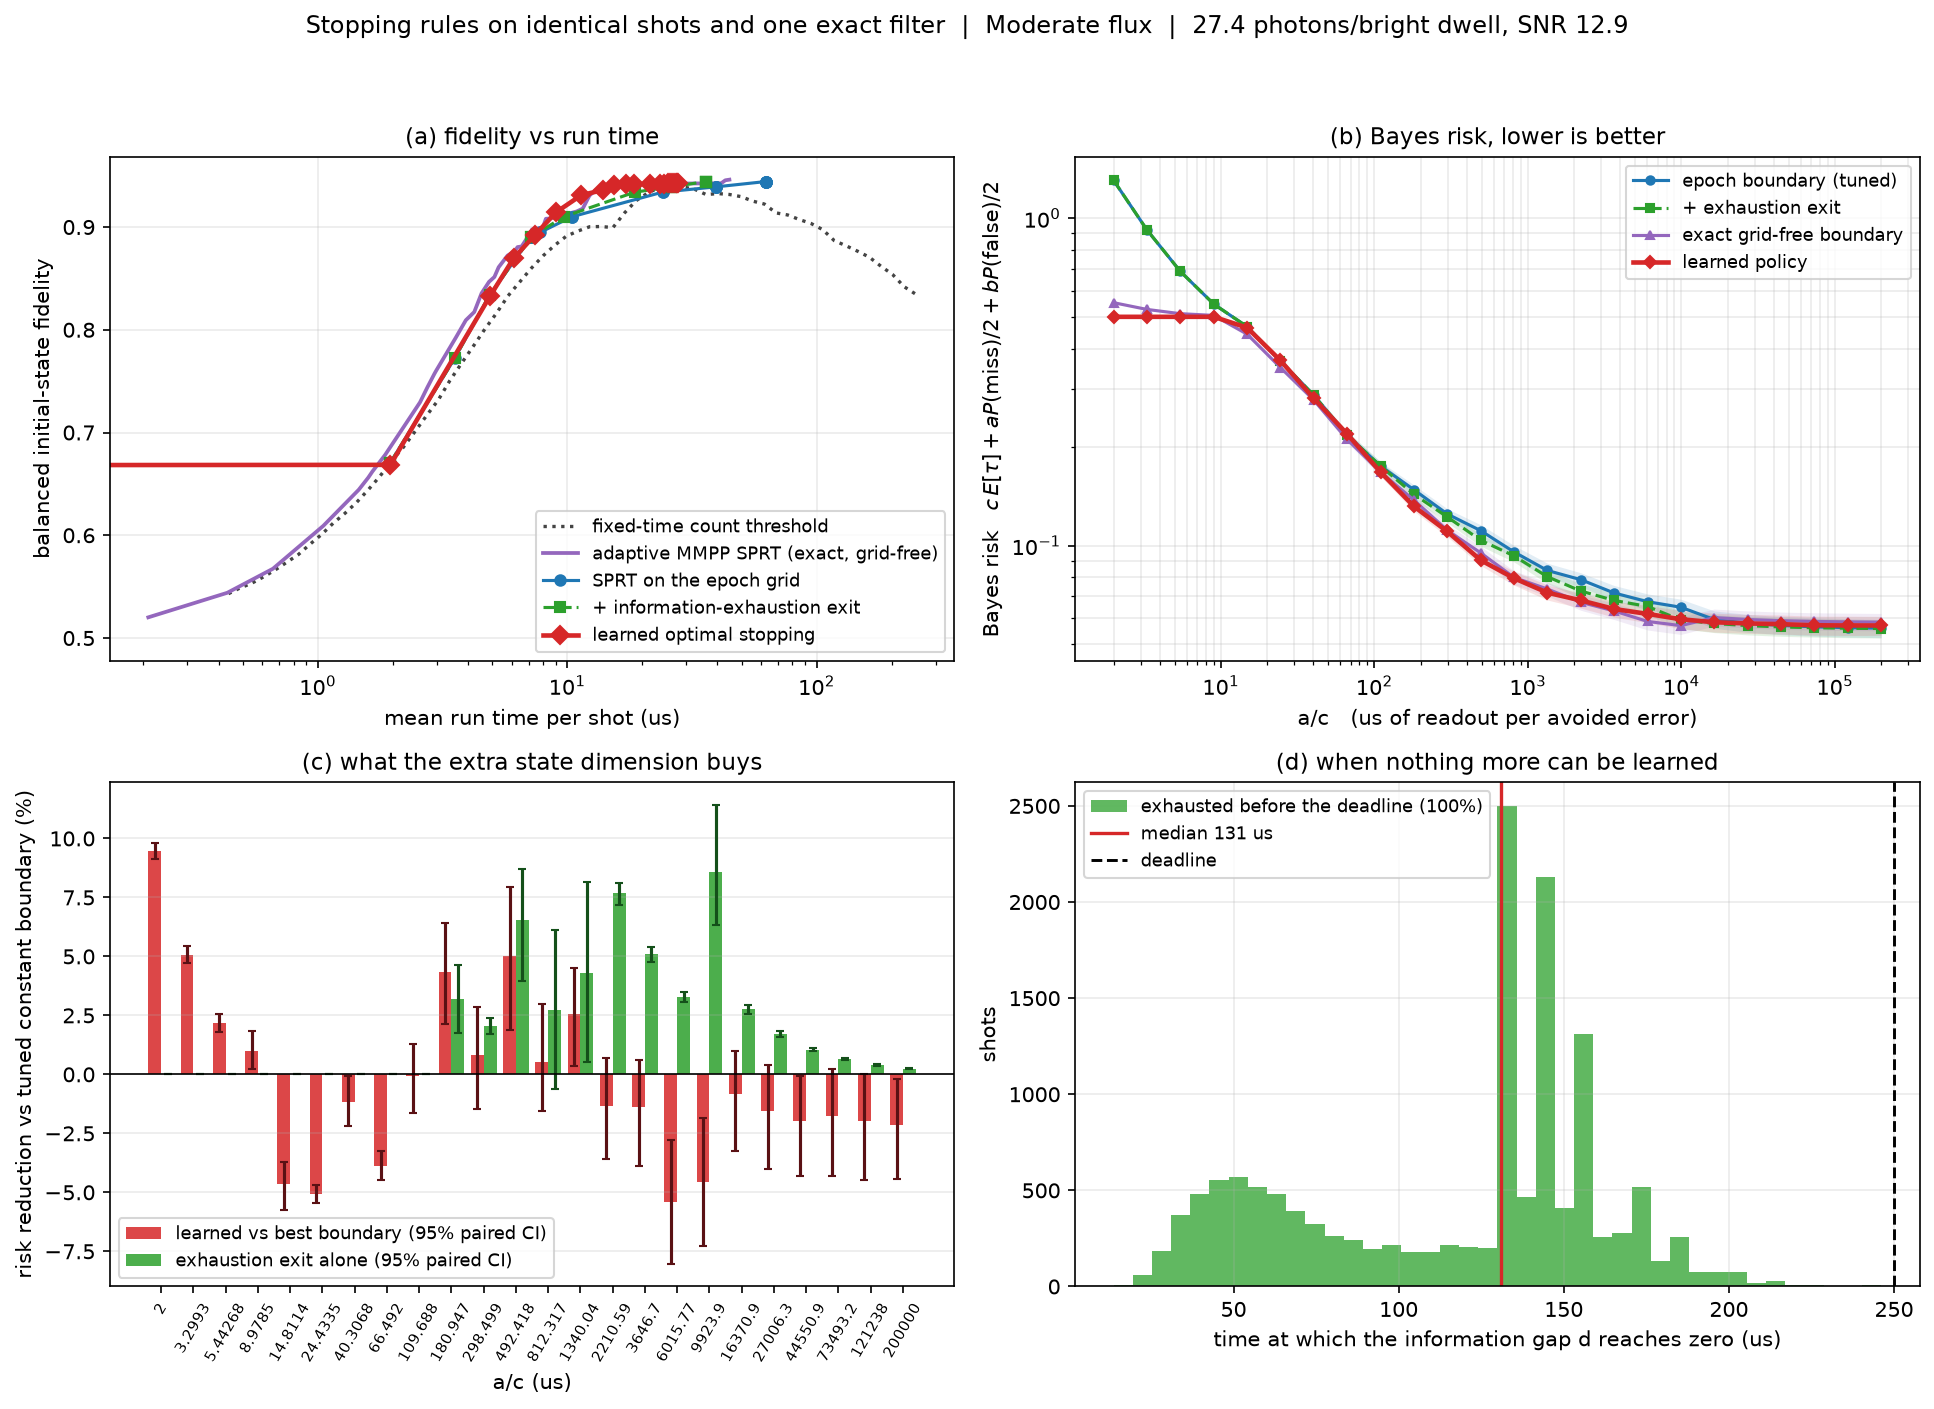
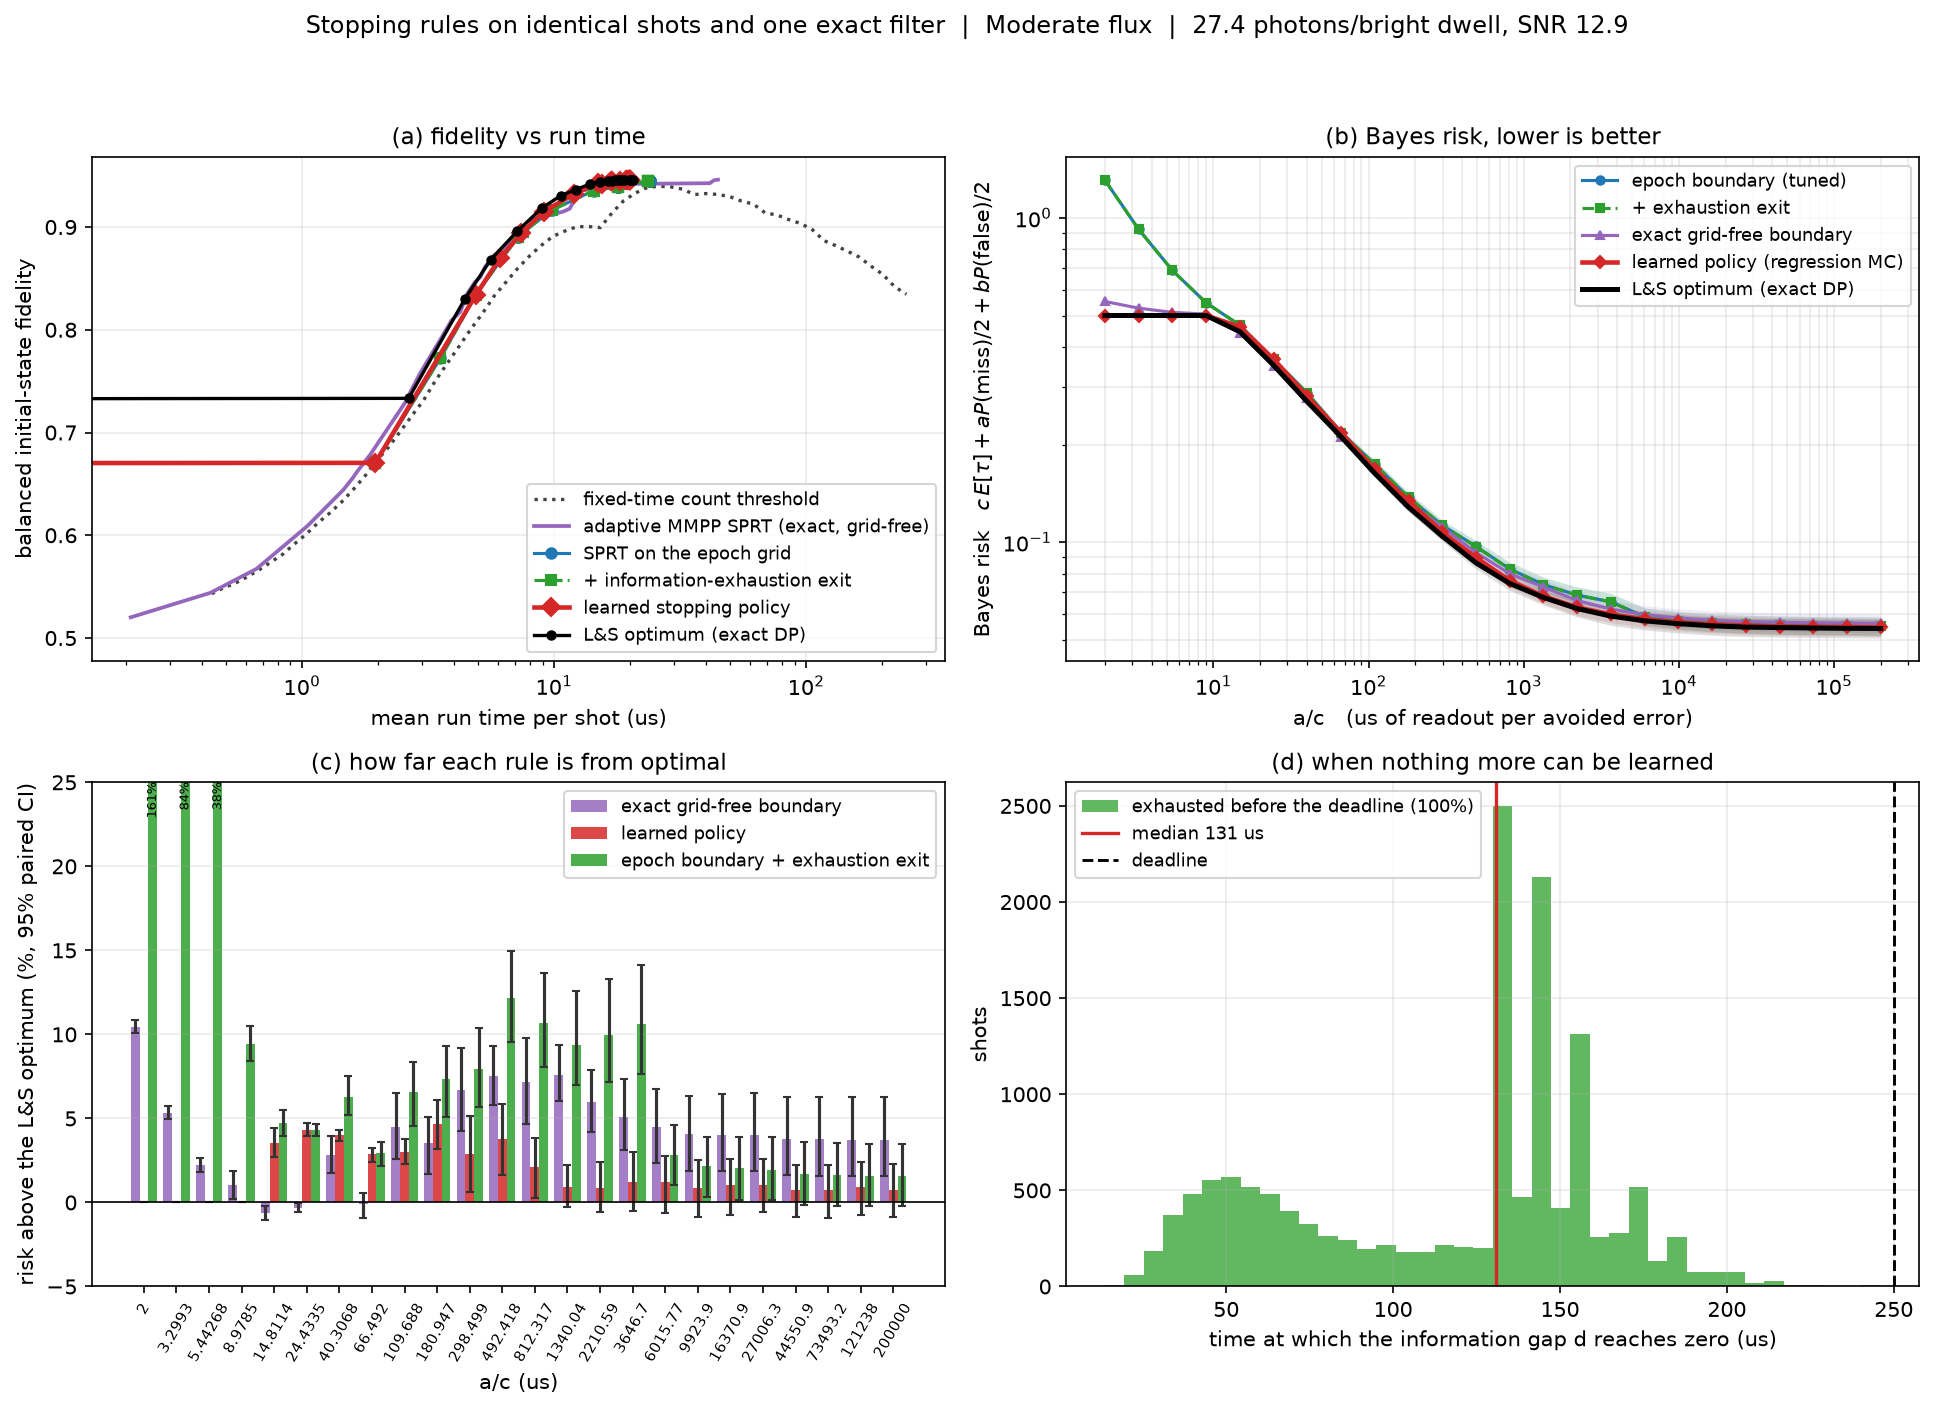
Re-run `optimal` against the exact optimum
Full size: 7200 test shots per state, 400 paired resamples, the exact DP
at every one of the 24 a/c values at all three points. Its policy, scored
on the test shots, lands within +-0.7% of its own R* throughout.

With the fixes, the learned policy is now the closest rule to the
optimum, and the exact SPRT is not:

  moderate    learned +0.8 to +4.6%   exact SPRT +3.5 to +7.6%
  high flux   learned -0.7 to +3.9%   exact SPRT +2.1 to +8.8%
  sparse      learned within +-0.6%   exact SPRT within ~+-4%

At the moderate point the learned policy is not distinguishable from
the optimum anywhere above a/c = 1340. Below a/c ~ 9 us the optimum
stops at t = 0; the learned policy does too, the SPRTs cannot.

Figure: panel (c) is now each rule's distance above the optimum with
paired intervals, clipped at 25% with off-scale bars labelled; panel (a)
shows the optimum's frontier.

Claude-Session: https://claude.ai/code/session_01QPNqKJ2d1r7hY2FSJML7Zq

diff --git a/adaptive_charge_state_master.py b/adaptive_charge_state_master.py
@@ -8895,8 +8895,13 @@ def plot_optimal_stopping(result: dict, save_path: str | None = None):
     )
     p.plot(
         [r["T_learned"] for r in rows], [r["F_learned"] for r in rows],
-        "-D", color="#d62728", ms=6, lw=2.2, label="learned optimal stopping",
+        "-D", color="#d62728", ms=6, lw=2.2, label="learned stopping policy",
     )
+    if "T_optimal" in rows[0]:
+        p.plot(
+            [r["T_optimal"] for r in rows], [r["F_optimal"] for r in rows],
+            "-o", color="k", ms=4, lw=1.6, label="L&S optimum (exact DP)",
+        )
     p.set_xscale("log")
     p.set_xlabel("mean run time per shot (us)")
     p.set_ylabel("balanced initial-state fidelity")
@@ -8949,6 +8954,16 @@ def plot_optimal_stopping(result: dict, save_path: str | None = None):
             p.bar(x + (j - 1) * 0.27, g, width=0.27, color=col, alpha=0.85,
                   yerr=err, ecolor="#333333", capsize=2, label=lab)
         p.set_ylabel("risk above the L&S optimum (%, 95% paired CI)")
+        # At the smallest a/c the optimum stops at t = 0 and the SPRTs cannot,
+        # so their bars run to +100-600%; clip so the rest stays readable.
+        cap = 25.0
+        p.set_ylim(-5.0, cap)
+        for j, key in enumerate(("exact_sprt", "learned", "exhaustion")):
+            for i, r in enumerate(rows):
+                if r[f"gap_{key}_pct"] > cap:
+                    p.annotate(f"{r[f'gap_{key}_pct']:.0f}%",
+                               (x[i] + (j - 1) * 0.27, cap), fontsize=6,
+                               rotation=90, ha="center", va="top")
     else:
         red = np.array([r["risk_reduction_pct"] for r in rows])
         rlo = np.array([r.get("risk_reduction_ci_low", np.nan) for r in rows])
